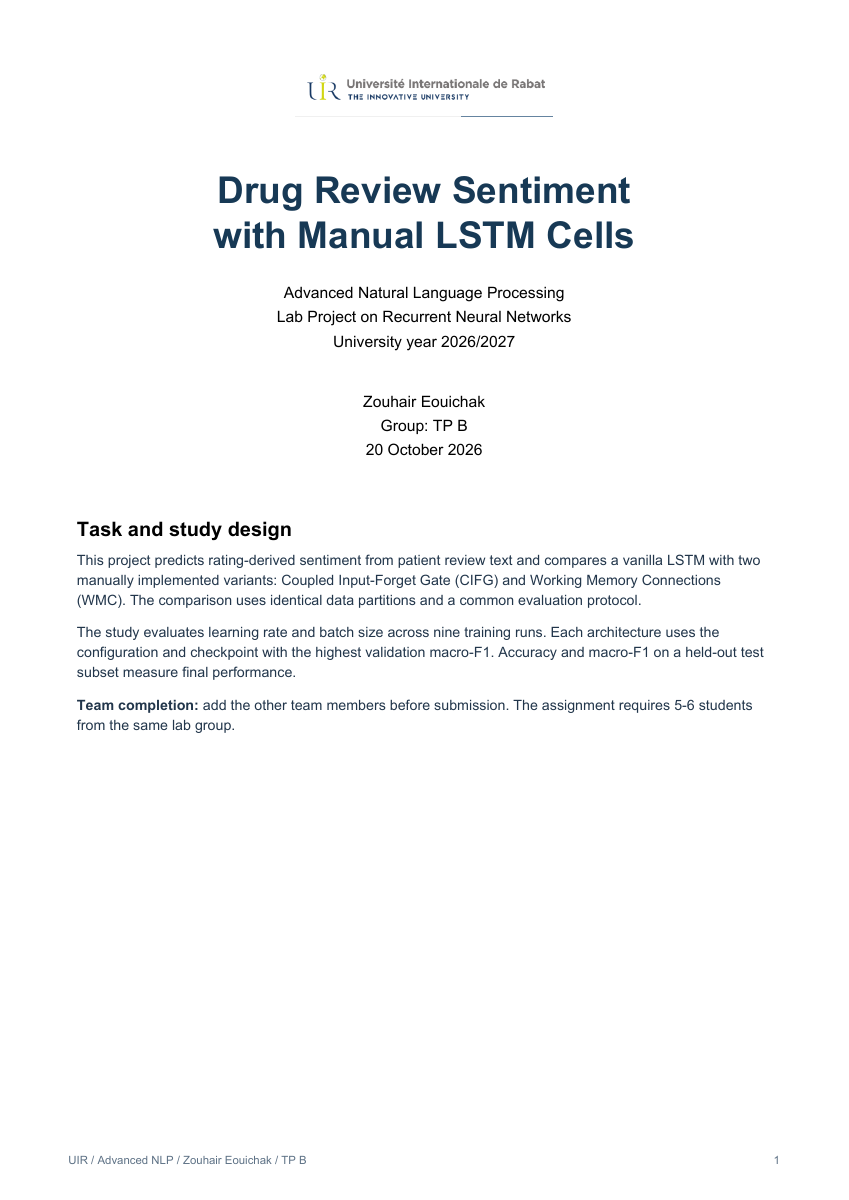
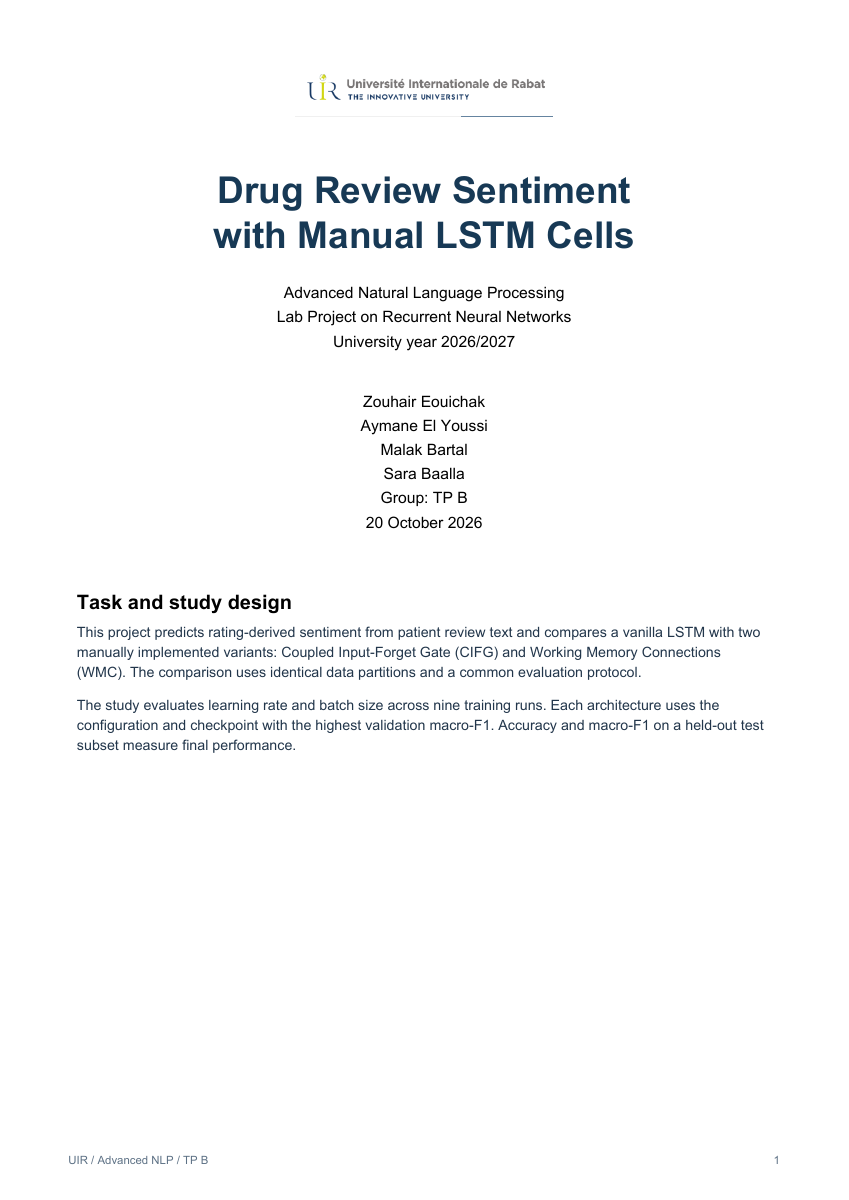
Add Aymane El Youssi, Malak Bartal and Sara Baalla to report and slides

Changed region(s): [[0.0919, 0.3392, 0.8881, 0.6475], [0.2144, 0.9558, 0.3062, 0.9867]]

diff --git a/build_report.py b/build_report.py
@@ -30,11 +30,10 @@ with PI.open(logo) as im: ratio=im.height/im.width
 story.append(Image(str(logo),width=180,height=180*ratio));story.append(Spacer(1,35))
 story.append(Paragraph('Drug Review Sentiment<br/>with Manual LSTM Cells',styles['Cover']))
 story.append(Paragraph('Advanced Natural Language Processing<br/>Lab Project on Recurrent Neural Networks<br/>University year 2026/2027',styles['CenterSmall']))
-story.append(Spacer(1,25));story.append(Paragraph('Zouhair Eouichak<br/>Group: TP B<br/>20 October 2026',styles['CenterSmall']));story.append(Spacer(1,25))
+story.append(Spacer(1,25));story.append(Paragraph('Zouhair Eouichak<br/>Aymane El Youssi<br/>Malak Bartal<br/>Sara Baalla<br/>Group: TP B<br/>20 October 2026',styles['CenterSmall']));story.append(Spacer(1,25))
 h('Task and study design')
 p('This project predicts rating-derived sentiment from patient review text and compares a vanilla LSTM with two manually implemented variants: Coupled Input-Forget Gate (CIFG) and Working Memory Connections (WMC). The comparison uses identical data partitions and a common evaluation protocol.')
 p('The study evaluates learning rate and batch size across nine training runs. Each architecture uses the configuration and checkpoint with the highest validation macro-F1. Accuracy and macro-F1 on a held-out test subset measure final performance.')
-p('<b>Team completion:</b> add the other team members before submission. The assignment requires 5-6 students from the same lab group.')
 page();h('1. Dataset and exploratory analysis')
 p(f"The Drugs.com dataset supplied in the project brief contains {data['original']['train']:,} training reviews and {data['original']['test']:,} test reviews in the downloaded mirror. Input features contain review text only. Ratings define negative (1-4), neutral (5-6), and positive (7-10) labels. These thresholds are a modeling choice, and the resulting labels are a proxy for sentiment.")
 p(f"Text normalization decodes HTML, lowercases text and retains word tokens, numbers, exclamation marks and question marks. Exact normalized duplicates are removed within each partition. Removing test reviews found in training excludes {data['removed_test_overlap']:,} additional test rows. This reduces direct text leakage but does not guarantee independence of near-duplicate or same-drug reviews.")
@@ -66,6 +65,6 @@ p(f"The configuration with the highest validation macro-F1 belongs to {chosen['m
 p('<b>Limitations and improvements:</b> use several seeds, train longer with early stopping, increase sequence length and data size, and compare pretrained embeddings. Inspect ambiguous ratings, negation and mixed sentiment. Consider grouping by drug or stronger duplicate detection when testing generalization. The present experiment uses rating labels and a limited training budget, so it cannot establish broad superiority of any cell.')
 p('<b>References:</b> Project Guidelines_RNN_2627, appendix equations. UCI Drug Review Dataset (Drugs.com), dataset 462, Kallumadi and Grasser (2018). Download mirror: github.com/semnan-university-ai/Drug-Review-Dataset. CIFG reading: arxiv.org/abs/1503.04069. WMC reading: doi/source identifier S0893608021003439.')
 def footer(c,doc):
-    c.setFont('Helvetica',8);c.setFillColor(colors.HexColor('#5d7185'));c.drawString(48,25,'UIR / Advanced NLP / Zouhair Eouichak / TP B');c.drawRightString(A4[0]-48,25,str(doc.page))
+    c.setFont('Helvetica',8);c.setFillColor(colors.HexColor('#5d7185'));c.drawString(48,25,'UIR / Advanced NLP / TP B');c.drawRightString(A4[0]-48,25,str(doc.page))
 SimpleDocTemplate(str(O/'RNN_Report_Zouhair_Eouichak.pdf'),pagesize=A4,rightMargin=48,leftMargin=48,topMargin=35,bottomMargin=42).build(story,onFirstPage=footer,onLaterPages=footer)
 print('Report created')

diff --git a/package_project.py b/package_project.py
@@ -12,7 +12,7 @@ with zipfile.ZipFile(dest,'w',zipfile.ZIP_DEFLATED,compresslevel=6) as z:
             for base,dirs,files in os.walk(p):
                 for name in files:
                     f=Path(base)/name
-                    if name.startswith('00_'):continue
+                    if name.startswith('00_') or name.startswith('RNN_Presentation_Team'):continue
                     z.write(f,'rnn_drug_review/'+f.relative_to(R).as_posix())
     for source,destination in [('.build/build_slides.mjs','tools/build_slides.mjs'),('.build/slides-validation.json','validation/slides-validation.json')]:
         f=R/source

diff --git a/README.md b/README.md
@@ -1,7 +1,7 @@
 # Comparing manual LSTM cells on drug reviews
 
 Advanced Natural Language Processing, UIR, 2026/2027.
-Student: Zouhair Eouichak, TP B. Add the remaining team members before submission (5-6 required).
+Team (TP B): Zouhair Eouichak, Aymane El Youssi, Malak Bartal, Sara Baalla. The guidelines require 5-6 members; confirm the remaining member(s) before submission.
 
 ## Task
 Predict rating-derived sentiment from review text only: negative (1-4), neutral (5-6), positive (7-10).
